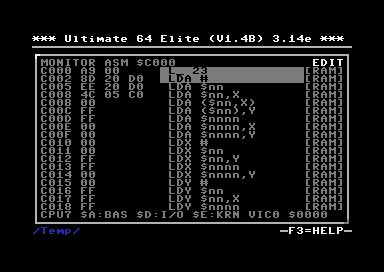
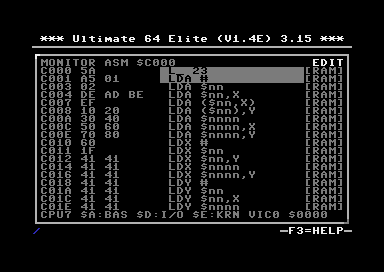
Document DATA rows, Transfer scan range and machine:input limits

diff --git a/howto/machine_code_monitor.rst b/howto/machine_code_monitor.rst
@@ -27,7 +27,27 @@ Open the built-in help with ``F3`` or ``?``. It lists every key binding:
 To close the monitor:
 
 -  Press ``C=+O`` again.
--  Press ``RUN/STOP`` when no edit operation or popup is active.
+-  Press ``RUN/STOP``, ``ESC``, or the C64's top-left ``←`` key when no edit operation or popup is active.
+
+``RUN/STOP``, ``ESC`` and ``←`` are one Back action. Each press closes one active layer, such as the help, a number
+expression, a popup, a command prompt or edit mode, and closes the monitor only once nothing is left. Where ``←`` is
+data, in ASCII and Screen editing and in the ASCII and Screen rows of the Number popup, use ``RUN/STOP`` or ``ESC``
+instead.
+
+Two shortcuts act on the machine rather than on the view, and both work from a memory view and from edit mode:
+
++----------+---------------------------------------------------------------------------------------------------+
+| Key      | Action                                                                                            |
++==========+===================================================================================================+
+| ``C=+R`` | Reset the C64. This is the same action as the task menu's ``Reset C64``, so the on-device menu    |
+|          | closes with the machine's screen where the interface is drawn there.                              |
++----------+---------------------------------------------------------------------------------------------------+
+| ``C=+I`` | Swap the interface between the freeze menu and the HDMI overlay, and close the menu. The setting  |
+|          | takes effect the next time the menu opens.                                                        |
++----------+---------------------------------------------------------------------------------------------------+
+
+Neither has a confirmation. A backend that cannot reach a reset reports ``RESET UNAVAILABLE`` and leaves the machine,
+the view and edit mode unchanged.
 
 Screen Layout
 -------------
@@ -92,12 +112,44 @@ Assembly View
 
 Assembly view shows decoded 6510 instructions, their instruction bytes, and the memory source used for each row.
 
+The source tag occupies three characters inside the brackets, so the column stays aligned across bank boundaries: ``[RAM]``, ``[BAS]``, ``[CHR]``, ``[I/O]``, ``[KRN]``, and ``[CPU]`` for the memory currently visible to the CPU on an Ultimate-II+.
+
 Example:
 
 .. image:: ../media/monitor/assembly_view.png
    :alt: Monitor Assembly view at $E011
 
 Assembly view is also a full inline assembler: in edit mode it offers opcode completion as you type. See :ref:`machine-monitor-inline-assembler`.
+
+Data Regions
+^^^^^^^^^^^^
+
+``$D000-$DFFF`` is shown as ``DATA`` rows of two bytes each when either I/O or Character ROM is banked in. I/O reads
+live registers, so decoding it would change the instruction length, and with it the address of every row below, on
+each redraw. Character ROM is stable, but it holds character bitmaps that never were code. With RAM banked in, the
+same addresses are disassembled normally: the rule follows the banked source, not the address range. On an
+Ultimate-II+, ``$D000-$DFFF`` is always disassembled, because that backend reports one source for the whole CPU view.
+
+.. image:: ../media/monitor/asm_data_rows.png
+   :alt: Monitor Assembly view showing $D000 as DATA rows of two bytes
+
+The rows are grouped from the start of the region, so where a ``DATA`` row begins does not depend on how the view
+arrived there. ``$D000-$DFFF`` is 4096 bytes and divides into 2048 rows of two; a region whose length is odd ends
+with a row of one byte.
+
+A ``DATA`` row is edited in Assembly view like any other row. ``E`` enters edit mode and the cursor sits on the first
+byte. Each displayed byte is its own edit position, two hex digits complete one, and ``LEFT``/``RIGHT`` step from
+byte to byte and on into the row above or below. There is no opcode picker on a ``DATA`` row, because there is no
+mnemonic to pick, and a letter key does nothing there. ``[I/O]`` is writable; ``[CHR]`` is ROM and refuses the write
+as it does everywhere else. Editing the same bytes in Memory view with ``M`` works as before.
+
+``DEL`` clears a ``DATA`` row's bytes to ``$00``. On a decoded instruction it still writes ``NOP``, which is what
+keeps the code around it runnable; ``NOP`` means nothing in a region that is not code.
+
+The two-byte row is how the bytes are shown, not what a range is made of. A range anchored with ``R`` on a ``DATA``
+byte covers the bytes between its ends: anchoring on ``$D001``, moving right to ``$D002`` and pressing ``R`` copies
+those two bytes and nothing else. A range that starts on a decoded instruction still takes that instruction whole, so
+a range may cross between code and data without either end losing bytes.
 
 Binary View
 ~~~~~~~~~~~
@@ -276,6 +328,10 @@ Value   Meaning
 
 Cartridges can further affect the CPU-visible memory map through the expansion-port ``GAME`` and ``EXROM`` lines.
 
+An Ultimate-II+ has no monitor-selectable CPU bank, so its footer reports the VIC bank alone::
+
+   CPU VIEW  VIC0 $0000
+
 Editing
 -------
 
@@ -304,14 +360,14 @@ In edit mode, ``Space`` remains view-specific data entry and does not page.
 
 ``DEL`` is logical delete, not raw backspace:
 
-============ ===================================================
+============ =====================================================================================
 View         ``DEL`` behavior
-============ ===================================================
+============ =====================================================================================
 Memory       Writes ``$00`` and advances
 ASCII/Screen Writes a space
 Binary       Clears the selected bit
-Assembly     Replaces the current instruction with ``NOP`` bytes
-============ ===================================================
+Assembly     Replaces the current instruction with ``NOP`` bytes; clears a ``DATA`` row to ``$00``
+============ =====================================================================================
 
 In Assembly view, if an inline edit is already active, ``DEL`` first cancels the current line edit state.
 
@@ -412,12 +468,34 @@ The monitor includes direct bulk memory commands:
 +=======+==========+=============================================+=======================================================================+
 | ``F`` | Fill     | ``start-end,value``                         | Fill an inclusive range with one byte                                 |
 +-------+----------+---------------------------------------------+-----------------------------------------------------------------------+
-| ``T`` | Transfer | ``start-end,dest``                          | Copy a range to a destination                                         |
+| ``T`` | Transfer | ``start-end,dest[,code-start-code-end]``    | Copy a range to a destination, optionally relocating operands         |
 +-------+----------+---------------------------------------------+-----------------------------------------------------------------------+
 | ``C`` | Compare  | ``start-end,dest``                          | Compare a range against another location and list differing addresses |
 +-------+----------+---------------------------------------------+-----------------------------------------------------------------------+
 | ``H`` | Hunt     | ``start-end,bytes`` or ``start-end,"text"`` | Search for a byte sequence or quoted ASCII string                     |
 +-------+----------+---------------------------------------------+-----------------------------------------------------------------------+
+
+``Fill``, ``Transfer``, ``Compare``, ``Hunt`` and ``Save`` all treat ``start-end`` as inclusive of both ends,
+including the full ``0000-FFFF`` range.
+
+``Transfer`` takes an optional fourth field naming the range to scan for pointers into the block being copied::
+
+   T C000-C0FF,C100,C000-C07F
+
+Absolute, absolute-indexed and indirect operands pointing inside the copied source range are then adjusted to the
+corresponding destination address. Relative branches, zero-page operands, references outside the copied range and
+incomplete instructions are left unchanged. Without the fourth field, ``Transfer`` copies the bytes and changes
+nothing.
+
+The scan range is independent of the range being copied. It may be shorter than the copy, longer than it, or
+somewhere else entirely, which is what lets a pointer that is not itself moving be brought with the block::
+
+   T C000-C005,C010,C000-C008
+
+Here the first two instructions are copied to ``$C010`` while the scan covers a third instruction that stays where it
+is. An instruction wholly inside the copy is rewritten in the copy, because that is the version being relocated. An
+instruction wholly outside it is rewritten where it stands. An instruction whose three bytes straddle the end of the
+copy is left alone, since writing its operand would put one byte in the copy and the other in the original.
 
 ``Hunt`` prompts for a range followed by a byte sequence or quoted text:
 
@@ -431,6 +509,9 @@ Matches are listed in a result picker:
 
 -  ``Return``: jump to the selected match.
 -  ``RUN/STOP``: close the picker.
+
+A command prompt accepts only characters that can occur in the command being entered; other keys are ignored. Parsing
+and validation still happen on ``Return``.
 
 File I/O
 --------

diff --git a/api/api_calls.rst b/api/api_calls.rst
@@ -327,7 +327,8 @@ Machine
        | *[length]*
      - This command performs a DMA read action on the cartridge bus and returns the result as a binary attachment.
        The *address* argument specifies the memory location in hexadecimal format. The optional
-       argument *length* specifies the number of bytes being read. When not specified, 256 bytes are returned.
+       argument *length* specifies the number of bytes being read, from 1 to 65536. When not specified, 256 bytes are
+       returned. The read may not pass ``$FFFF``.
    * - ``GET /v1/machine:debugreg``
      -
      - This command reads the debug register ($D7FF) and returns it in the "value" field of the JSON response. The value is in
@@ -401,7 +402,7 @@ The input endpoint injects keyboard and joystick input on Ultimate 64-class hard
 On products that do not provide the required Ultimate 64 input hardware, these calls return HTTP status code ``501`` with
 an error message. Password handling is the same as other REST API calls.
 
-The request body may be up to 4096 bytes. The successful response format is::
+The successful response format is::
 
    {
      "keyboard": {
@@ -420,7 +421,12 @@ The request body may be up to 4096 bytes. The successful response format is::
      "errors": []
    }
 
-``POST /v1/machine:input`` expects a top-level object with an ``events`` array. The array must contain 1 to 64 events.
+``POST /v1/machine:input`` expects a top-level object with an ``events`` array. Two limits apply to every request and
+neither one implies the other: the array must contain 1 to 64 events, and the request body must not exceed 4096 bytes.
+A batch of 64 events with short input names stays inside both limits, while 64 events with longer input names exceeds
+the body limit. A request body over 4096 bytes is refused with ``400 Bad Request`` and the message ``JSON body is too
+large.``, so a client that batches input must count events and measure the serialised body.
+
 The complete batch is validated before any event is applied; if validation fails, the endpoint returns ``400 Bad
 Request`` and leaves the current input state unchanged.
 
